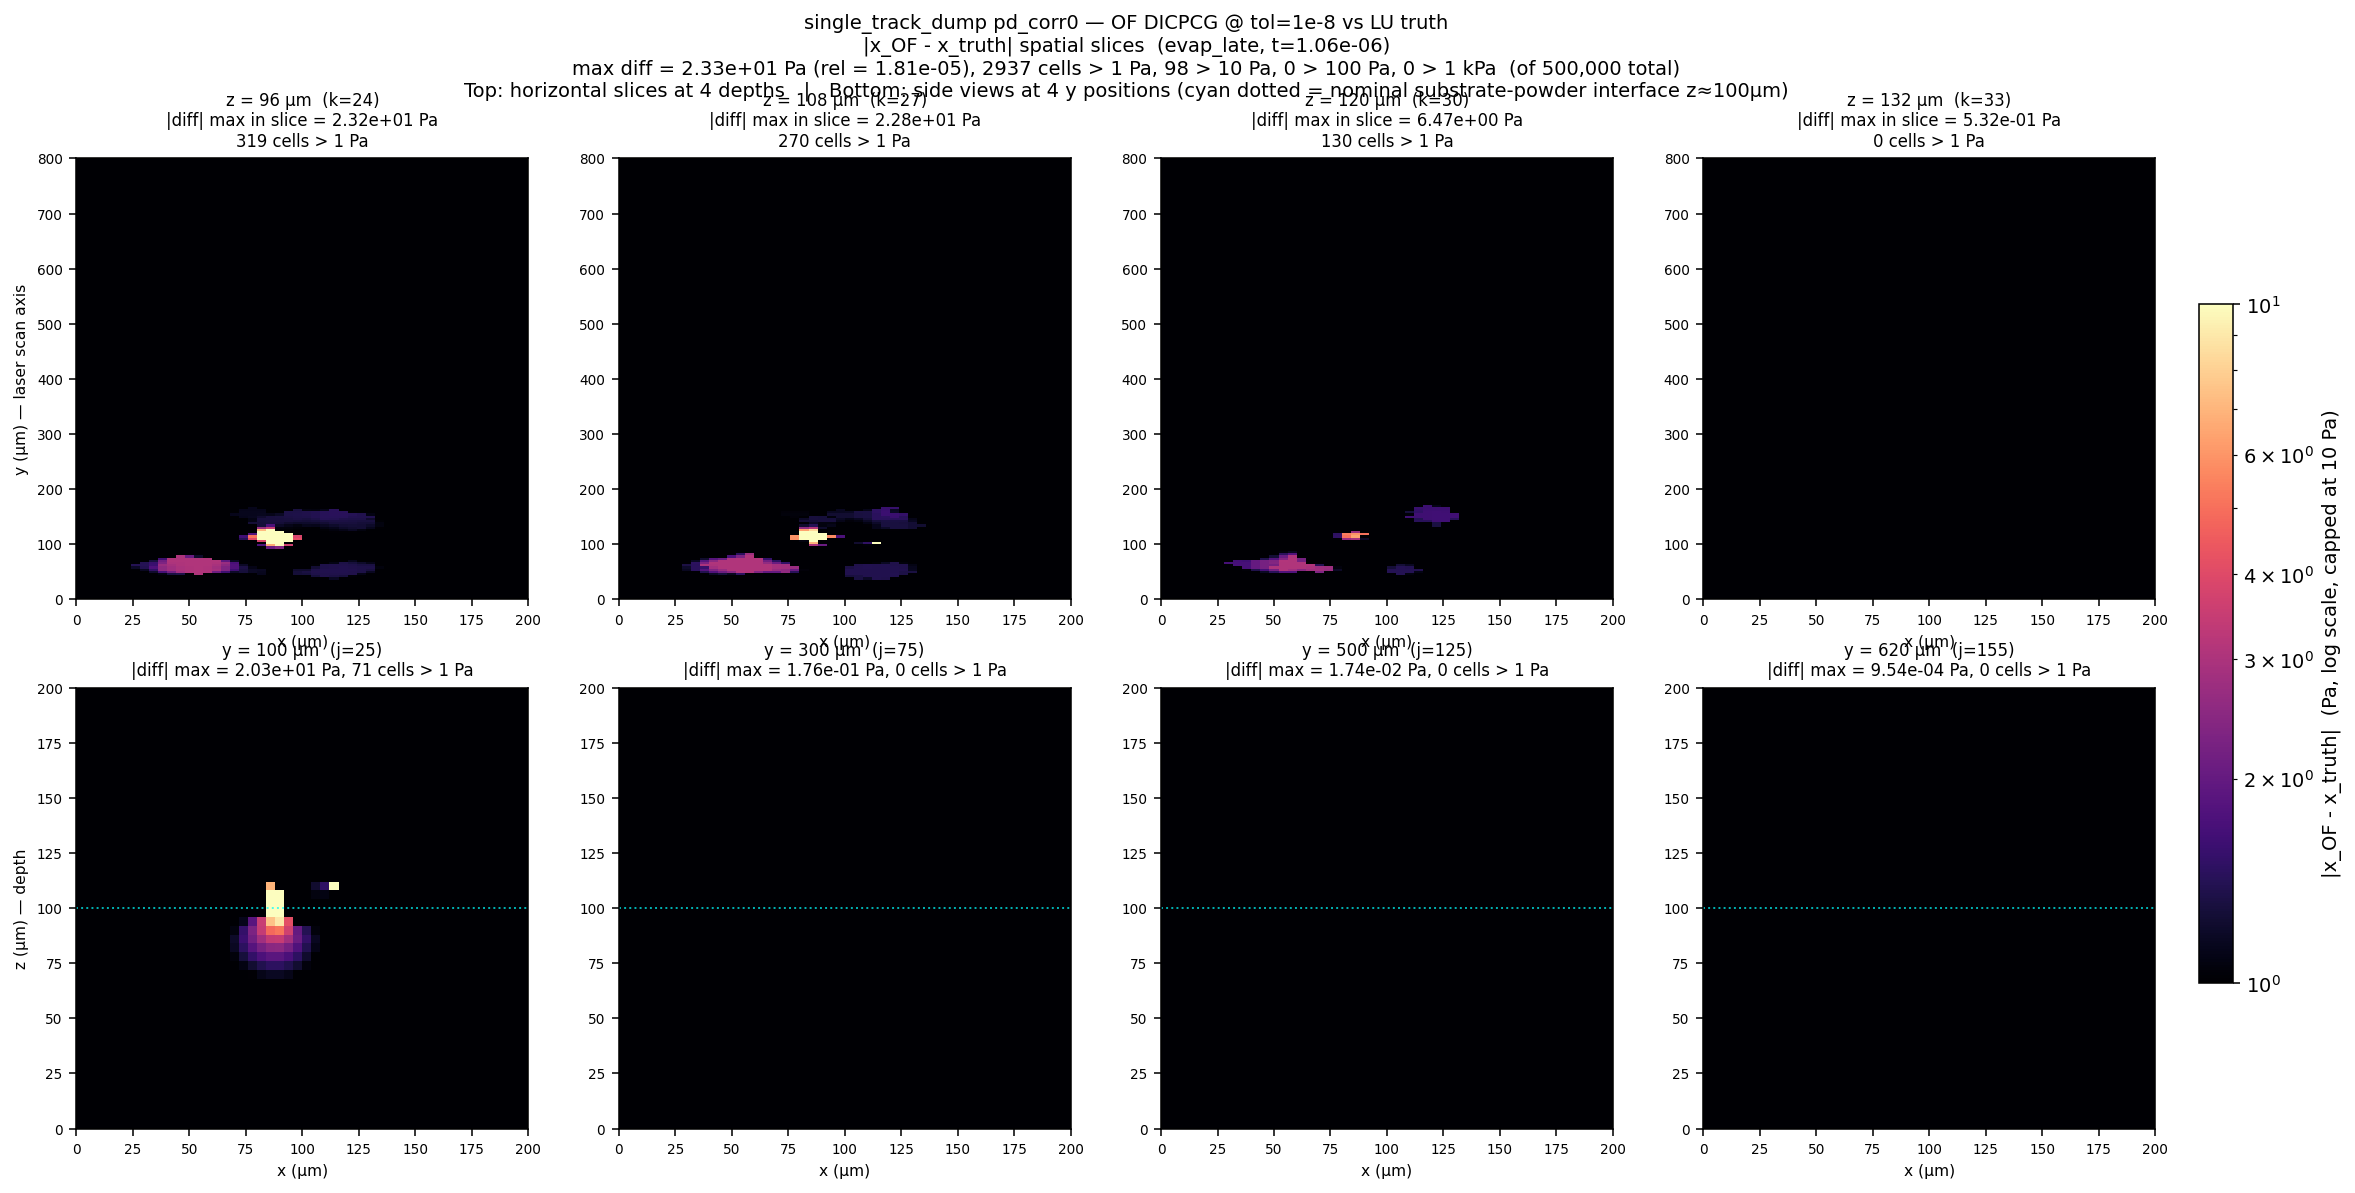
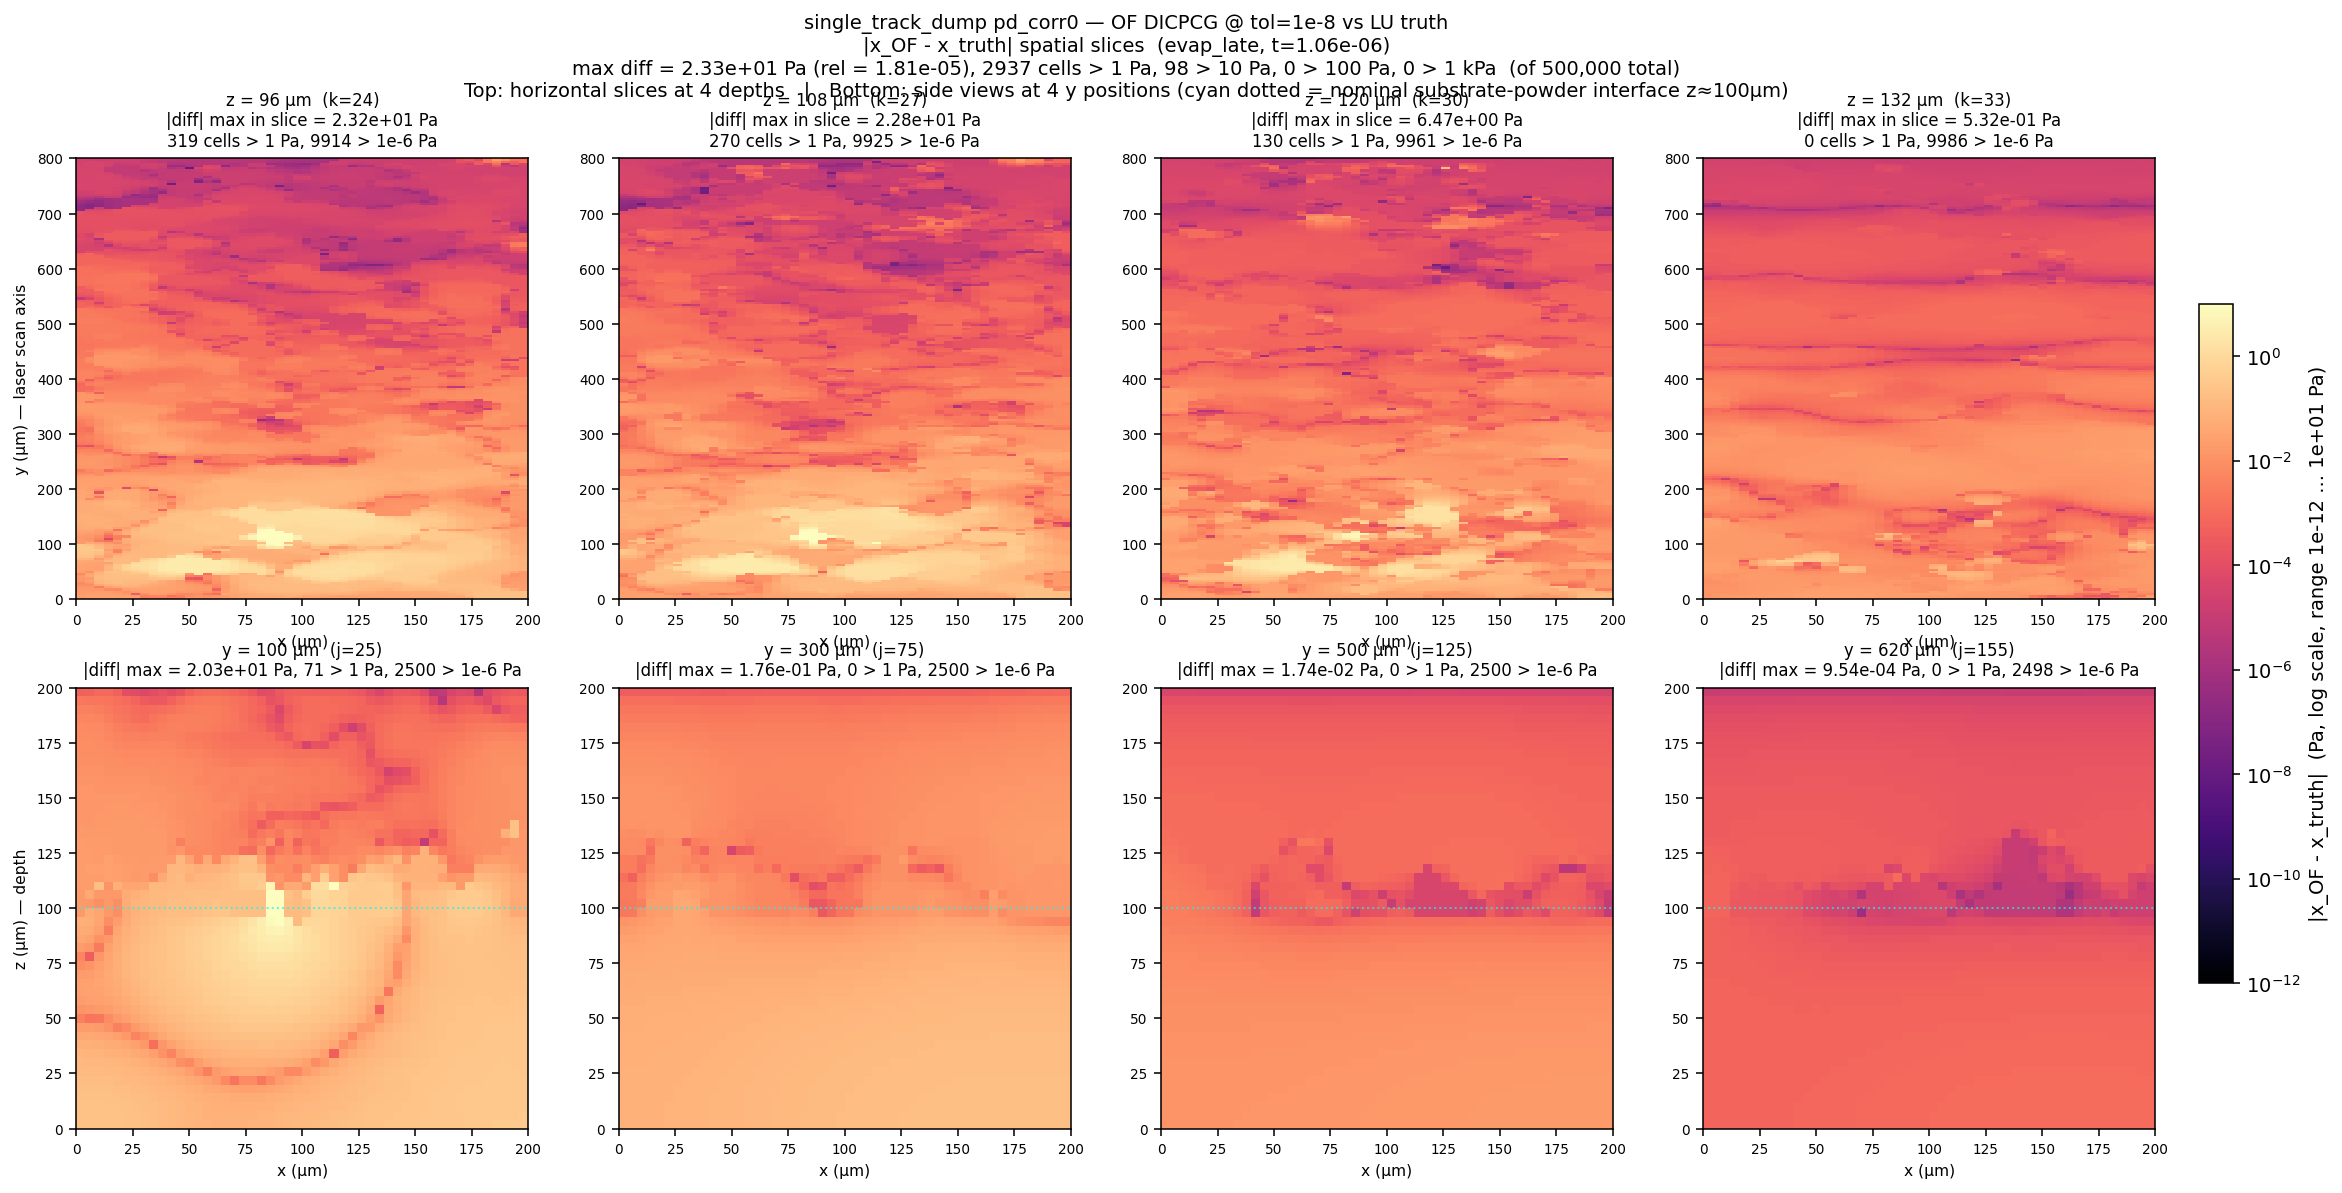
diff-slice plots: unified colorbar 1e-12 to 10 Pa (13-order log scale, all 3 solver pairs comparable)

diff --git a/dilu/amgx/bench/plot_single_track_solver_diff_slices.py b/dilu/amgx/bench/plot_single_track_solver_diff_slices.py
@@ -36,9 +36,12 @@ Z_SLICES_UM = [96, 108, 120, 132]
 # Y-position side-view slices (μm)
 Y_SLICES_UM = [100, 300, 500, 620]
 
-# Log color scale: vmin=1 Pa, vmax=10 Pa (user requested)
-VMIN = 1.0
-VMAX = 10.0  # 10^1 Pa
+# Log color scale: vmin=1e-12 Pa, vmax=1e1 Pa (user request 2026-05-13)
+# 13 orders of magnitude covers everything from AMGx+IR vs LU (~1e-12 Pa quantum)
+# to OF vs AMGx PCG (~10 Pa max).  Unified scale lets all 3 solver pairs be
+# compared on the same colorbar.
+VMIN = 1e-12
+VMAX = 1e1  # 10 Pa
 
 # Powder surface (substrate top) for cyan reference line in side views
 POWDER_SURFACE_UM = 100.0
@@ -110,7 +113,8 @@ def main(phase: str, t: str, pair: str = "OF_vs_AMGx_e8"):
         k = int(round(z_um / dx))
         slc = diff_vol[k, :, :]   # shape (ny, nx)
         # Clip below VMIN to VMIN for log scale display (no negatives anyway since |·|)
-        slc_disp = np.maximum(slc, VMIN * 0.01)
+        # Clip below VMIN so log-scale doesn't blow up on exact zeros
+        slc_disp = np.maximum(slc, VMIN)
 
         x_cc = (np.arange(nx) + 0.5) * dx
         y_cc = (np.arange(ny) + 0.5) * dx
@@ -118,9 +122,10 @@ def main(phase: str, t: str, pair: str = "OF_vs_AMGx_e8"):
         im = ax.pcolormesh(X, Y, slc_disp, norm=norm, cmap=cmap,
                             shading="auto", rasterized=True)
         n_gt1 = int(np.sum(slc > 1.0))
+        n_med = int(np.sum(slc > 1e-6))
         ax.set_title(f"z = {z_um} μm  (k={k})\n"
                       f"|diff| max in slice = {slc.max():.2e} Pa\n"
-                      f"{n_gt1} cells > 1 Pa", fontsize=8.5)
+                      f"{n_gt1} cells > 1 Pa, {n_med} > 1e-6 Pa", fontsize=8.5)
         ax.set_xlabel("x (μm)", fontsize=8)
         if col == 0: ax.set_ylabel("y (μm) — laser scan axis", fontsize=8)
         ax.set_xlim(0, nx*dx); ax.set_ylim(0, ny*dx)
@@ -132,7 +137,7 @@ def main(phase: str, t: str, pair: str = "OF_vs_AMGx_e8"):
         ax = axes[1, col]
         j = int(round(y_um / dx))
         slc = diff_vol[:, j, :]   # shape (nz, nx)
-        slc_disp = np.maximum(slc, VMIN * 0.01)
+        slc_disp = np.maximum(slc, VMIN)
 
         x_cc = (np.arange(nx) + 0.5) * dx
         z_cc = (np.arange(nz) + 0.5) * dx
@@ -142,8 +147,9 @@ def main(phase: str, t: str, pair: str = "OF_vs_AMGx_e8"):
         # cyan reference at powder/substrate interface
         ax.axhline(POWDER_SURFACE_UM, color="cyan", linestyle=":", linewidth=1, alpha=0.7)
         n_gt1 = int(np.sum(slc > 1.0))
+        n_med = int(np.sum(slc > 1e-6))
         ax.set_title(f"y = {y_um} μm  (j={j})\n"
-                      f"|diff| max = {slc.max():.2e} Pa, {n_gt1} cells > 1 Pa", fontsize=8.5)
+                      f"|diff| max = {slc.max():.2e} Pa, {n_gt1} > 1 Pa, {n_med} > 1e-6 Pa", fontsize=8.5)
         ax.set_xlabel("x (μm)", fontsize=8)
         if col == 0: ax.set_ylabel("z (μm) — depth", fontsize=8)
         ax.set_xlim(0, nx*dx); ax.set_ylim(0, nz*dx)
@@ -154,7 +160,8 @@ def main(phase: str, t: str, pair: str = "OF_vs_AMGx_e8"):
     cbar = fig.colorbar(plt.cm.ScalarMappable(norm=norm, cmap=cmap),
                          ax=axes.ravel().tolist(), shrink=0.7, pad=0.02,
                          fraction=0.022)
-    cbar.set_label(f"{field_name}  (Pa, log scale, capped at {VMAX:.0f} Pa)", fontsize=10)
+    cbar.set_label(f"{field_name}  (Pa, log scale, range {VMIN:.0e} ... {VMAX:.0e} Pa)",
+                    fontsize=10)
 
     fig.suptitle(
         f"single_track_dump pd_corr0 — {title_pair}\n"
